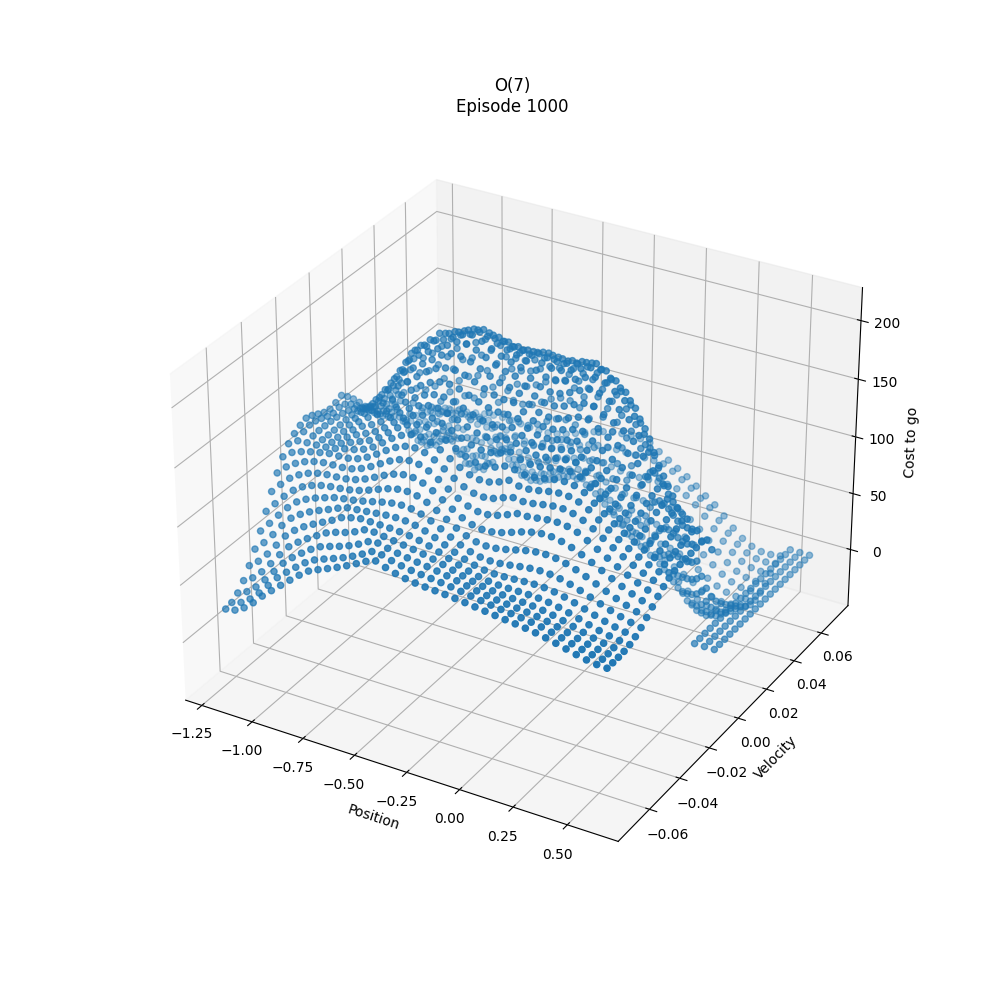
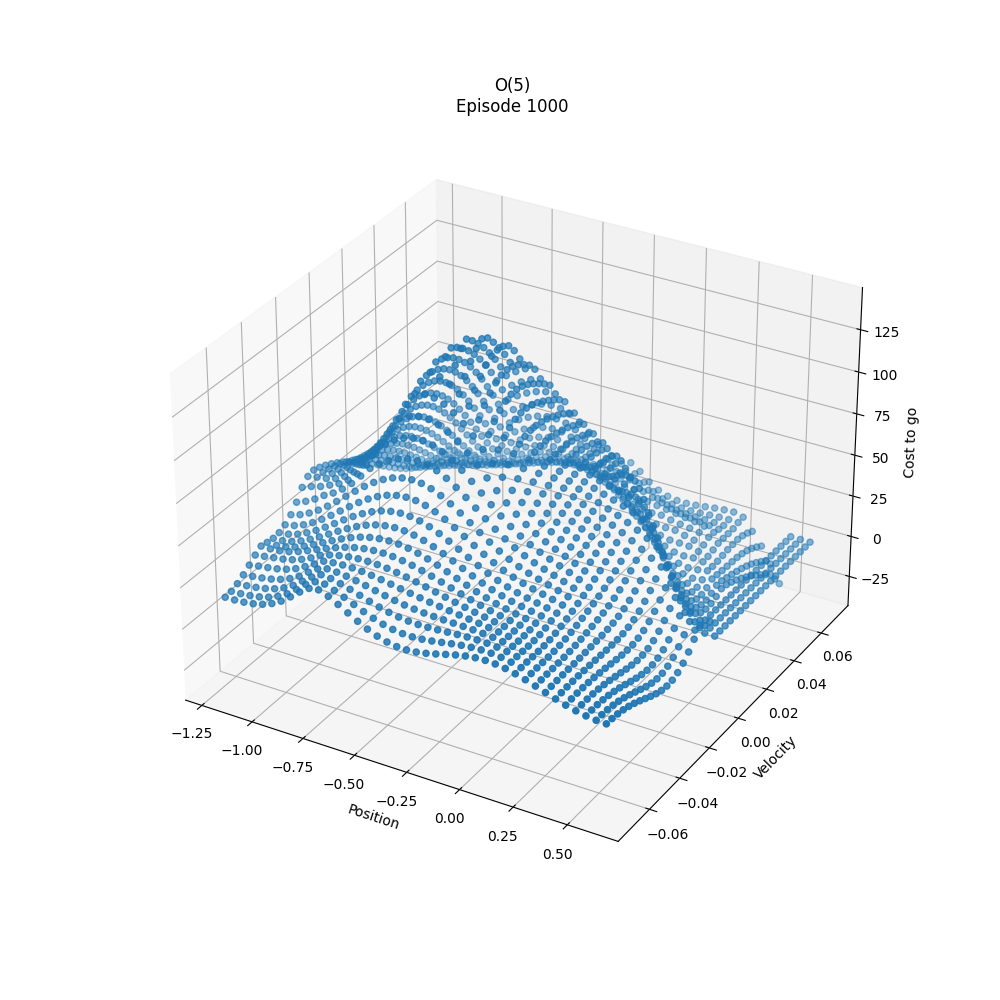
...

diff --git a/PA3/run_me.py b/PA3/run_me.py
@@ -10,12 +10,12 @@ from MountainCar import MountainCar
 from SarsaLambda import SarsaLambda as sl
 
 LAMBDA = 0.9
-ALPHA = 0.001
+ALPHA = 0.005
 GAMMA = 1.0
 EPSILON = 0.0
 EPISODES = 1000
-RUNS = 1  # max(cpu_count() - 1, 1)
-MAX_STEPS = 2000
+RUNS = max(cpu_count() - 1, 1)
+MAX_STEPS = 1000
 
 
 @contextlib.contextmanager
@@ -44,7 +44,7 @@ def learn(order, grid_size, run):
     positions = np.linspace(model.low[0], model.high[0], grid_size)
     velocities = np.linspace(model.low[1], model.high[1], grid_size)
 
-    for episode in tqdm(range(EPISODES), desc='O(%d) Run: %d' % (order, (run + 1)), leave=False):
+    for episode in tqdm(range(EPISODES), desc=f'O({order}) Run: {run + 1}', leave=False):
         steps[episode] = sarsa_lam.learnEpisode()
 
     for position in positions:
@@ -59,14 +59,14 @@ def learn(order, grid_size, run):
 
 def main():
     grid_size = 40
-    orders = [3]  # , 5, 7]
+    orders = [3, 5, 7]
     steps = np.zeros((len(orders), EPISODES))
     x = np.zeros((len(orders), grid_size ** 2))
     y = np.zeros((len(orders), grid_size ** 2))
     z = np.zeros((len(orders), grid_size ** 2))
 
     with joblib.Parallel(n_jobs=RUNS) as parallel:
-        with tqdm_joblib(tqdm(desc="Fourier SARSA(Lambda)", total=len(orders) * RUNS, ncols=100)):
+        with tqdm_joblib(tqdm(desc="Learning Fourier SARSA(Lambda)", total=len(orders) * RUNS, ncols=100)):
             for i in range(len(orders)):
                 results = parallel(joblib.delayed(learn)(orders[i], grid_size, run) for run in range(RUNS))
                 steps[i, :] = np.sum([r[0] for r in results], axis=0) / RUNS
@@ -76,15 +76,24 @@ def main():
 
     # Figure 1
     for i, order in enumerate(orders):
-        plt.plot(steps[i], label='Order = %d' % order)
+        plt.plot(steps[i], label=f'Order = {order}')
     plt.xlabel('Episodes')
     plt.ylabel('Steps')
-    # plt.yscale('log')
     plt.legend()
-    plt.savefig('images/figure_1b.png')
+    plt.savefig('images/figure_1.png')
     plt.close()
 
-    # Figures 2 - 4
+    # Figure 2
+    for i, order in enumerate(orders):
+        plt.plot(steps[i], label=f'Order = {order}')
+    plt.xlabel('Episodes')
+    plt.ylabel('Steps')
+    plt.yscale('log')
+    plt.legend()
+    plt.savefig('images/figure_2.png')
+    plt.close()
+
+    # Figures 3 - 5
     for i, order in enumerate(orders):
         fig = plt.figure(figsize=(10, 10))
         ax = fig.add_subplot(projection='3d')
@@ -92,17 +101,17 @@ def main():
         ax.set_xlabel('Position')
         ax.set_ylabel('Velocity')
         ax.set_zlabel('Cost to go')
-        ax.set_title('O(%d)\nEpisode %d' % (order, EPISODES))
-        plt.savefig('images/figure_%d.png' % (i + 2))
+        ax.set_title(f'O({order})\nEpisode {EPISODES}')
+        plt.savefig(f'images/figure_{i + 3}.png')
         plt.close()
 
 
 def animate():
-    sarsa_lam = sl(MountainCar(), LAMBDA, ALPHA, GAMMA, EPSILON, 3, MAX_STEPS, animate=True)
-    for _ in tqdm(range(EPISODES), ncols=100):
-        sarsa_lam.learnEpisode()
+    sarsa_lam = sl(MountainCar(), LAMBDA, ALPHA, GAMMA, EPSILON, 3, MAX_STEPS)
+    for episode in tqdm(range(1, EPISODES + 1), desc="Animating Fourier SARSA(Lambda)", ncols=100):
+        sarsa_lam.learnEpisode(episode, animate=episode % 100 == 0 or episode == 1)
 
 
 if __name__ == '__main__':
     main()
-    # animate()
+    animate()

diff --git a/PA3/MountainCar.py b/PA3/MountainCar.py
@@ -1,33 +1,61 @@
+from math import cos
+from os import environ
+from typing import Optional
+
 import numpy as np
+from gym.envs.classic_control import utils
 from gym.envs.classic_control.mountain_car import MountainCarEnv
+
+environ['PYGAME_HIDE_SUPPORT_PROMPT'] = '1'
+from pygame import display
 
 
 class MountainCar(MountainCarEnv):
     def __init__(self):
-        super().__init__()
+        super().__init__(render_mode="human")
 
-    def set(self, state: [float, float]):
-        self.state = np.array(state)
+    def set(self, state: (float, float)):
+        self.state = state
+
+    def reset(self, *, seed: Optional[int] = None, options: Optional[dict] = None) -> np.ndarray:
+        super(MountainCarEnv, self).reset(seed=seed)
+        low, high = utils.maybe_parse_reset_bounds(options, -0.6, -0.4)
+        self.state = np.array([self.np_random.uniform(low=low, high=high), 0])
+        return np.array(self.state, dtype=np.float32)
+
+    def step(self, action: int, e: float = 0.5) -> (np.ndarray, float, bool):
+        assert self.action_space.contains(action), f"{action!r} ({type(action)}) invalid"
+
+        position, velocity = self.state
+
+        velocity += (action - 1) * self.force + cos(3 * position) * (-self.gravity)
+        velocity = np.clip(velocity, -self.max_speed, self.max_speed)
+        position += velocity
+        position = np.clip(position, self.min_position, self.max_position)
+        if position == self.min_position and velocity < 0:
+            velocity = -e * velocity
+
+        self.state = (position, velocity)
+
+        if self.isTerminal():
+            return np.array(self.state, dtype=np.float32), 0.0, True
+        return np.array(self.state, dtype=np.float32), -1.0, False
+
+    def animate(self, episode: int, step: int, max_steps: int):
+        super().render()
         if self.render_mode == "human":
-            super().render()
+            display.set_caption(f'    Episode: {episode}    |    Step: {step} / {max_steps}')
 
-    def step(self, action: int) -> (int, np.ndarray):
-        state, reward, terminated, truncated, _ = super().step(action)
-
-        if terminated or truncated:
-            return 0, state
-        return reward, state
-
-    def isTerminal(self, state: list[float, float] = None) -> bool:
+    def isTerminal(self, state: (float, float) = None) -> bool:
         if state is None:
             state = self.state
         return state[0] >= self.goal_position and state[1] >= self.goal_velocity
 
     def getState(self) -> np.ndarray:
-        return self.state
+        return np.array(self.state)
 
-    def normalize(self, state):
-        S = state.copy()
+    def normalize(self, state) -> np.ndarray:
+        S = np.array(state.copy())
         for i in range(len(S)):
             S[i] = (S[i] - self.low[i]) / (self.high[i] - self.low[i])
         return S

diff --git a/PA3/SarsaLambda.py b/PA3/SarsaLambda.py
@@ -1,12 +1,11 @@
 from itertools import product as prod
+
 import numpy as np
 
 
 class SarsaLambda:
     def __init__(self, model, lam: float, alpha: float, gamma: float, epsilon: float, order: int,
-                 max_steps: int = 1000, animate: bool = False):
-        if animate:
-            model.render_mode = 'human'
+                 max_steps: int = 1000):
         self.model = model
         self.lam = lam
         self.alpha = alpha
@@ -25,7 +24,7 @@ class SarsaLambda:
         for i in range(self.num_basis - 1):
             const = np.array(all_consts[i])
             self.basis.append(lambda s, c=const: np.cos(np.pi * np.dot(s, c)))
-            self.alphas.append(alpha / np.linalg.norm(const))  # a_i = a / ||c||
+            self.alphas.append(alpha / np.linalg.norm(const))  # a_i = a / ||c_i||
         self.alphas = np.array([self.alphas] * model.action_space.n).T
 
         self.weights = np.zeros((self.num_basis, model.action_space.n))
@@ -35,7 +34,6 @@ class SarsaLambda:
             return self.model.action_space.sample()
         return int(np.argmax([self.value(S, A) for A in range(self.model.action_space.n)]))
 
-    # estimate the value of given state and action
     def value(self, S, A: int) -> float:
         if self.model.isTerminal(S):
             return 0.0
@@ -43,8 +41,10 @@ class SarsaLambda:
         phi = np.array([feature(self.model.normalize(S)) for feature in self.basis])
         return float(np.dot(self.weights[:, A], phi))
 
-    def learnEpisode(self) -> int:
+    def learnEpisode(self, episode: int = 0, animate: bool = False) -> int:
         self.model.reset()
+        if animate:
+            self.model.animate(episode, 0, self.max_steps)
         S = self.model.getState()
         z = np.zeros((self.num_basis, self.model.action_space.n))
         A = self.getAction(S)
@@ -52,11 +52,13 @@ class SarsaLambda:
         for steps in range(self.max_steps):
             phi = np.array([feature(self.model.normalize(S)) for feature in self.basis])
 
-            z[:, A] = phi
-            R, S_p = self.model.step(A)
+            z[:, A] += phi  # accumulating traces
+            S_p, R, terminated = self.model.step(A)
+            if animate:
+                self.model.animate(episode, steps + 1, self.max_steps)
             delta = R - self.value(S, A)
 
-            if self.model.isTerminal():
+            if terminated:
                 self.weights += delta * z * self.alphas
                 return steps + 1
 
@@ -69,7 +71,6 @@ class SarsaLambda:
 
         return self.max_steps
 
-    # get # of steps to reach the goal under current state value function
     def cost_to_go(self) -> float:
         S = self.model.getState()
         return -max([self.value(S, A) for A in range(self.model.action_space.n)])
